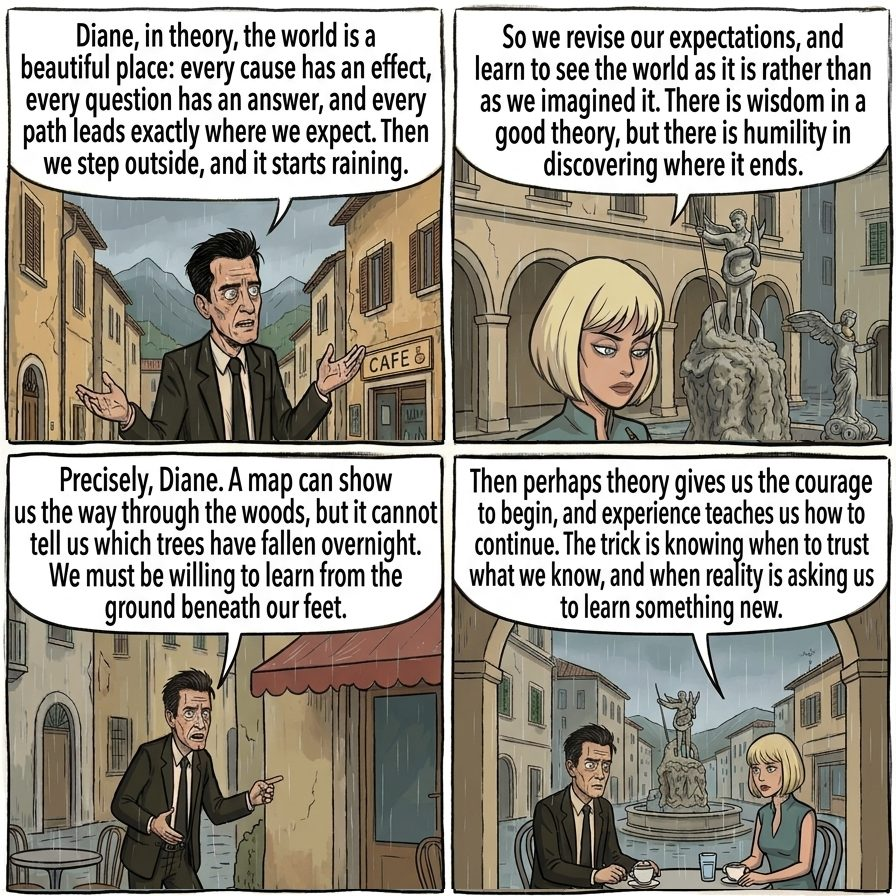
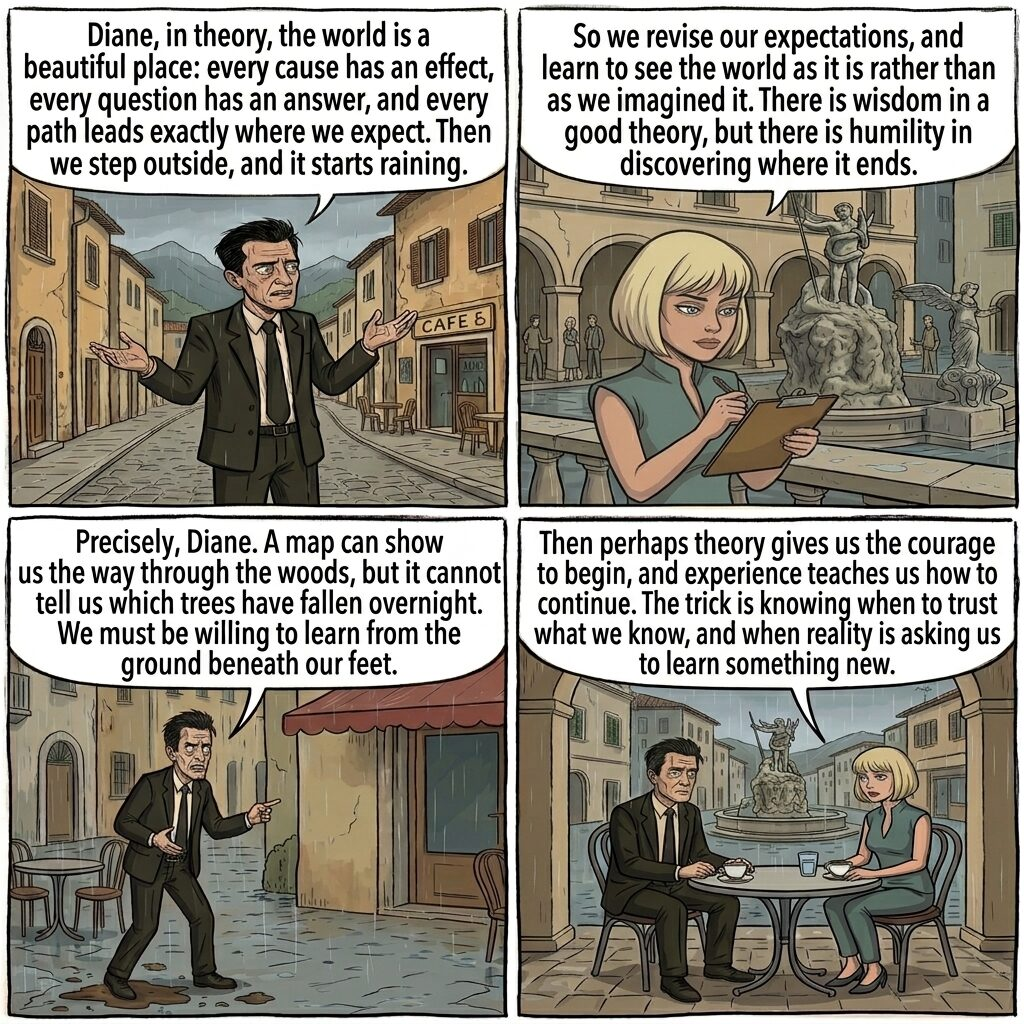
Research page: use comic3a for Thrust 3, 360px comics centered beside text
Claude-Session: https://claude.ai/code/session_01R1z8s3ooAAj397kBuQmJRd

diff --git a/style.css b/style.css
@@ -176,9 +176,9 @@ ul.timeline span { color: var(--muted); font-size: .9rem; font-weight: 600; text
 figure { margin: 1.25rem 0; }
 figure img, figure video { display: block; width: 100%; height: auto; border-radius: 4px; border: 1px solid var(--rule); background: #fff; }
 figure.narrow { max-width: 520px; }
-.thrust { display: grid; grid-template-columns: minmax(0, 1fr) minmax(0, 320px); gap: 2rem; align-items: start; }
-.thrust figure.comic { margin: 2.6rem 0 1rem; }
-.thrust figure.comic img { width: auto; max-width: 100%; height: 320px; margin-left: auto; }
+.thrust { display: grid; grid-template-columns: minmax(0, 1fr) 360px; gap: 2rem; align-items: center; }
+.thrust figure.comic { margin: 0; }
+.thrust figure.comic img { width: 360px; height: 360px; object-fit: cover; }
 figcaption { color: var(--muted); font-size: .9rem; margin-top: .4rem; }
 .figrow { display: grid; grid-template-columns: 1fr 1fr; gap: 1.25rem; }
 .figrow figure { margin: 0; }
@@ -203,5 +203,5 @@ details summary { cursor: pointer; color: var(--link); margin-bottom: .75rem; }
   .figrow { grid-template-columns: 1fr; }
   .thrust { display: block; }
   .thrust figure.comic { margin: 1.25rem 0; }
-  .thrust figure.comic img { height: 340px; margin: 0 auto; }
+  .thrust figure.comic img { width: 100%; max-width: 360px; height: auto; aspect-ratio: 1; margin: 0 auto; }
 }

diff --git a/research.html b/research.html
@@ -71,7 +71,7 @@
         <p>The goal is to develop resilient autonomy that monitors its safety margins, remains robust to disturbances and uncertainty, and recovers when operating conditions exceed design assumptions. Human&ndash;robot interaction is an integral part of this effort whenever people share the operating environment, including pilot-centric trajectory planning for autonomous aircraft near airports and virtual-reality studies of human interactions with multicopters.</p>
       </div>
       <figure class="comic">
-        <img src="images/research/real-world-comic.jpg" alt="Four-panel comic set on rainy Italian streets in which Cooper and Diane reflect that the world is tidy in theory until it starts raining; Diane stands by a fountain, Cooper points ahead, and the two sit at a cafe table" width="896" height="896" loading="lazy">
+        <img src="images/research/real-world-comic.jpg" alt="Four-panel comic set on rainy Italian streets in which Cooper and Diane reflect that the world is tidy in theory until it starts raining; Diane takes notes by a fountain, Cooper points at the wet ground, and the two sit at a cafe table" width="1024" height="1024" loading="lazy">
       </figure>
     </section>
 
